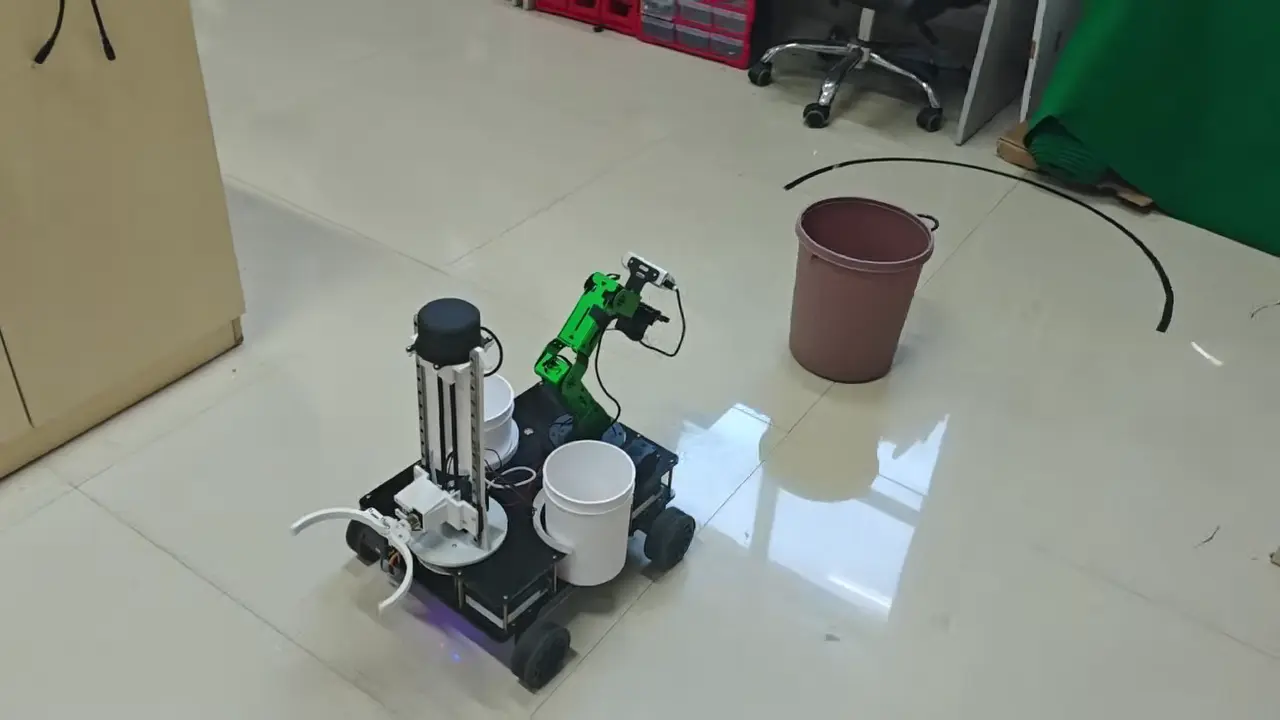
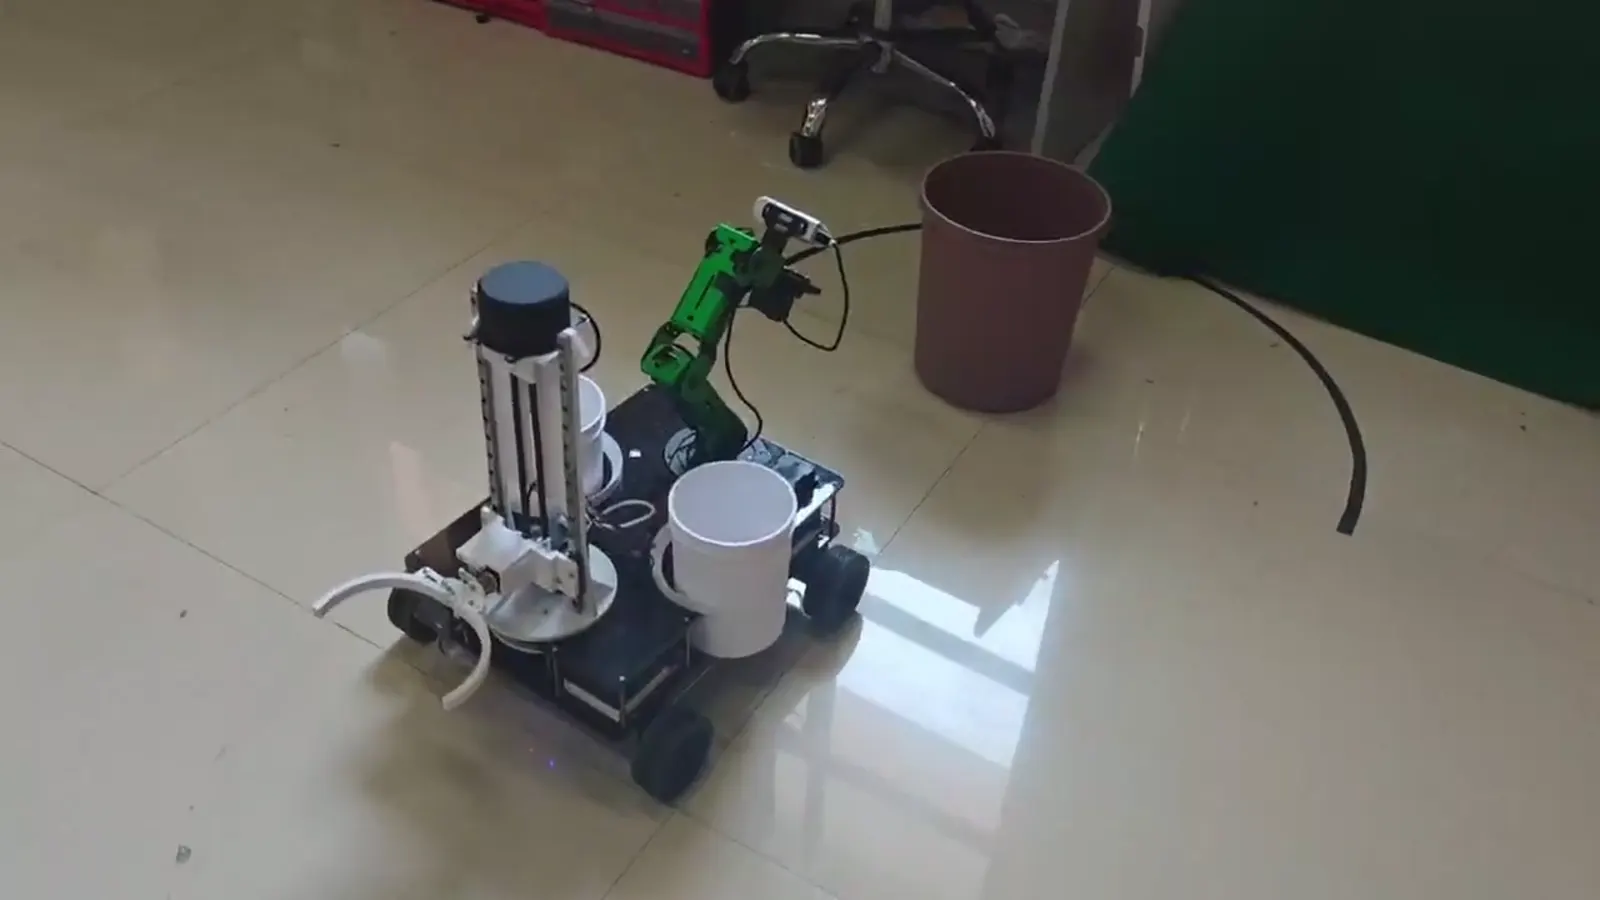
Update core robot project videos

diff --git a/index.html b/index.html
@@ -163,8 +163,8 @@
             id="robot-video"
             controls
             preload="metadata"
-            src="assets/videos/robot-navigation.mp4"
-            poster="assets/images/robot-navigation-poster.webp"
+            src="assets/videos/robot-mapping.mp4?v=20260711"
+            poster="assets/images/robot-mapping-poster.webp?v=20260711"
             aria-label="重构版垃圾拾取机器人演示视频"
           >
             浏览器不支持视频播放。
@@ -178,22 +178,29 @@
               <button
                 class="active"
                 type="button"
-                data-video="assets/videos/robot-navigation.mp4"
-                data-poster="assets/images/robot-navigation-poster.webp"
+                data-video="assets/videos/robot-mapping.mp4?v=20260711"
+                data-poster="assets/images/robot-mapping-poster.webp?v=20260711"
+              >
+                SLAM 建图
+              </button>
+              <button
+                type="button"
+                data-video="assets/videos/robot-navigation.mp4?v=20260711"
+                data-poster="assets/images/robot-navigation-poster.webp?v=20260711"
               >
                 导航避障
               </button>
               <button
                 type="button"
-                data-video="assets/videos/robot-pick.mp4"
-                data-poster="assets/images/robot-pick-poster.webp"
+                data-video="assets/videos/robot-pick.mp4?v=20260711"
+                data-poster="assets/images/robot-pick-poster.webp?v=20260711"
               >
                 夹取垃圾
               </button>
               <button
                 type="button"
-                data-video="assets/videos/robot-dump.mp4"
-                data-poster="assets/images/robot-dump-poster.webp"
+                data-video="assets/videos/robot-dump.mp4?v=20260711"
+                data-poster="assets/images/robot-dump-poster.webp?v=20260711"
               >
                 自动卸载
               </button>